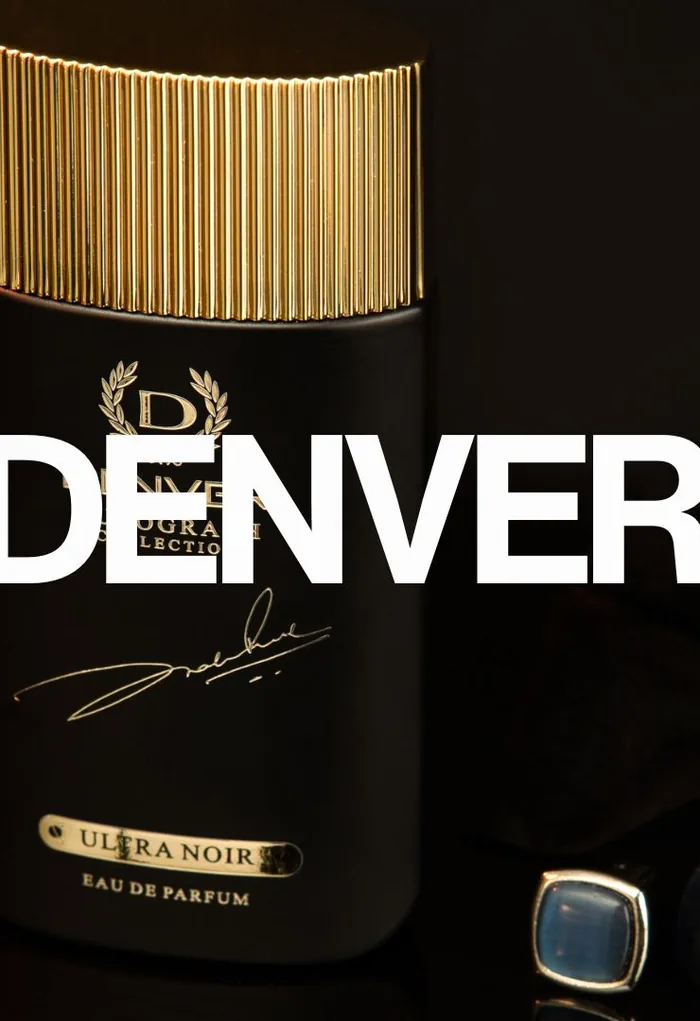
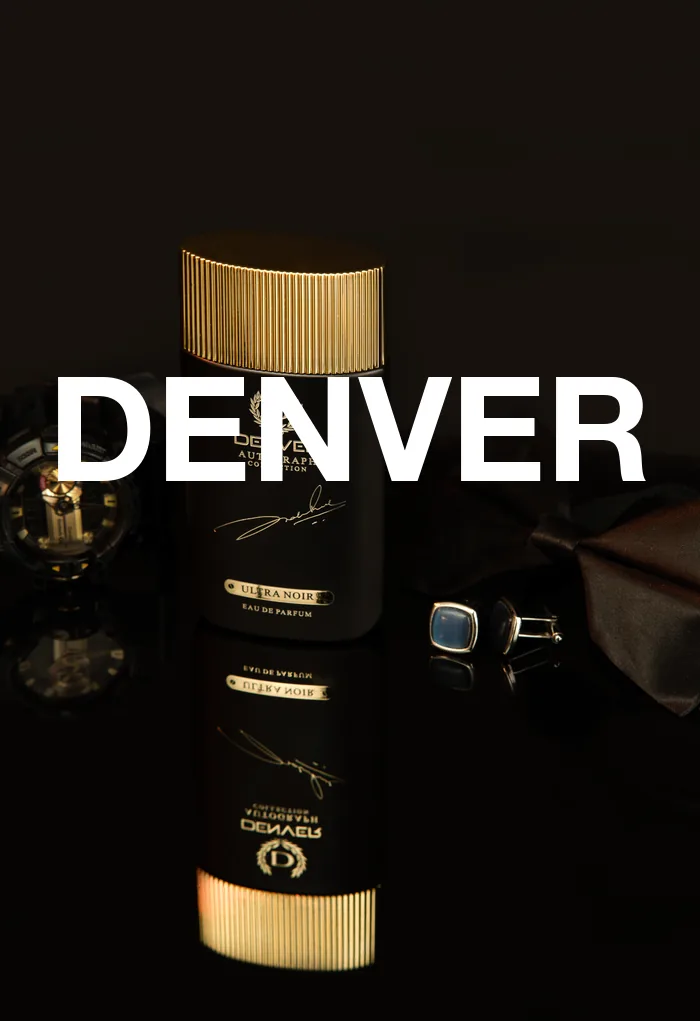
Work rail: reorder, and rebuild the Denver cover in the house style
ORDER — BBH Homes to first, Fig to fifth. The other five keep their relative
order and fill the gaps: bbhhomes, getmyrugs, parmandesigns, prakshi, fig,
tenderheartschool, denver. z-index and --rise renumbered by position so the
fanned stagger still runs 1..7 / 0..-72px.

DENVER COVER — it was the odd one out, and the cause was structural rather
than cosmetic: every other cover sets its wordmark contained, with margins on
both sides, while Denver's ran off both edges with the D and R clipped. That
came from cropping a landscape frame with DENVER already baked across it,
which no portrait crop can hold whole.

Rebuilt from DSC00457-2 — the same black-tie setup without the baked
wordmark, which only arrived with the shoot folder — cropped portrait to the
full bottle and DENVER set fresh in white Helvetica Bold at 86% of the card
width, matching the weight and proportion of BBH HOMES and TENDER HEART
SCHOOL either side of it. Nothing is clipped now.

The share image still uses the original landscape frame, where the baked
wordmark fits whole and needs no crop.

All seven covers verified at 700x1021, none broken.

diff --git a/index.html b/index.html
@@ -5,11 +5,11 @@
 <meta name="viewport" content="width=device-width, initial-scale=1">
 <title>Just Two Idiots — Websites and brands, built with care.</title>
 <meta name="description" content="A web and creative studio in India. Brand identity, websites, apps, packaging, content and campaigns — handled end to end by the two founders.">
-<link rel="icon" href="favicon.svg?v=1787493665" type="image/svg+xml">
+<link rel="icon" href="favicon.svg?v=1787495491" type="image/svg+xml">
 <link rel="preconnect" href="https://fonts.googleapis.com">
 <link href="https://fonts.googleapis.com/css2?family=Inter:wght@400;500;600&display=swap" rel="stylesheet">
 <link href="https://api.fontshare.com/v2/css?f[]=switzer@400,500,600,700&display=swap" rel="stylesheet">
-<link rel="stylesheet" href="style.css?v=1787493665">
+<link rel="stylesheet" href="style.css?v=1787495491">
 <link rel="canonical" href="https://justtwoidiots.com/">
 <meta name="theme-color" content="#FAFAF8">
 <meta property="og:type" content="website">
@@ -65,19 +65,19 @@
     </div>
     <div style="font-size:13px; color:#8A8A85; margin-bottom:8px"><span class="work-hint-pointer">Hover a project to bring it forward</span><span class="work-hint-touch">Swipe to browse the projects</span></div>
     <div class="work-rail">
-      <a href="work/fig.html" class="work-card" style="z-index:1; --rise:0px">
+      <a href="work/bbhhomes.html" class="work-card" style="z-index:1; --rise:0px">
         <div style="position:relative; border-radius:14px; overflow:hidden; height:350px; box-shadow:0 24px 50px -18px rgba(0,0,0,0.3); background:#fff">
-          <div style="width:100%; height:100%; background-image:url('assets/covers/fig.webp?v=1787493665'); background-size:cover; background-position:center"></div>
+          <div style="width:100%; height:100%; background-image:url('assets/covers/bbhhomes.webp?v=1787495491'); background-size:cover; background-position:center"></div>
           <div style="position:absolute; inset:0; background:linear-gradient(to right, transparent 65%, rgba(0,0,0,0.35) 100%); pointer-events:none"></div>
           <div style="position:absolute; left:0; right:0; bottom:0; padding:16px 18px; background:linear-gradient(transparent, rgba(0,0,0,0.6)); pointer-events:none">
-            <div style="font-family:'Switzer',sans-serif; font-weight:600; font-size:16px; color:#fff">Fig Living</div>
-            <div style="font-size:13px; color:rgba(255,255,255,0.75)">Lighting &amp; Living — Brand, app &amp; eCommerce</div>
+            <div style="font-family:'Switzer',sans-serif; font-weight:600; font-size:16px; color:#fff">BBH Homes</div>
+            <div style="font-size:13px; color:rgba(255,255,255,0.75)">Handmade Rugs &amp; Furniture &mdash; Storefront &amp; content</div>
           </div>
         </div>
       </a>
       <a href="work/getmyrugs.html" class="work-card" style="z-index:2; --rise:-12px">
         <div style="position:relative; border-radius:14px; overflow:hidden; height:350px; box-shadow:0 24px 50px -18px rgba(0,0,0,0.3); background:#fff">
-          <div style="width:100%; height:100%; background-image:url('assets/covers/getmyrugs.webp?v=1787493665'); background-size:cover; background-position:center"></div>
+          <div style="width:100%; height:100%; background-image:url('assets/covers/getmyrugs.webp?v=1787495491'); background-size:cover; background-position:center"></div>
           <div style="position:absolute; inset:0; background:linear-gradient(to right, transparent 65%, rgba(0,0,0,0.35) 100%); pointer-events:none"></div>
           <div style="position:absolute; left:0; right:0; bottom:0; padding:16px 18px; background:linear-gradient(transparent, rgba(0,0,0,0.6)); pointer-events:none">
             <div style="font-family:'Switzer',sans-serif; font-weight:600; font-size:16px; color:#fff">GetMyRugs</div>
@@ -87,7 +87,7 @@
       </a>
       <a href="work/parmandesigns.html" class="work-card" style="z-index:3; --rise:-24px">
         <div style="position:relative; border-radius:14px; overflow:hidden; height:350px; box-shadow:0 24px 50px -18px rgba(0,0,0,0.3); background:#fff">
-          <div style="width:100%; height:100%; background-image:url('assets/covers/parmandesigns.webp?v=1787493665'); background-size:cover; background-position:center"></div>
+          <div style="width:100%; height:100%; background-image:url('assets/covers/parmandesigns.webp?v=1787495491'); background-size:cover; background-position:center"></div>
           <div style="position:absolute; inset:0; background:linear-gradient(to right, transparent 65%, rgba(0,0,0,0.35) 100%); pointer-events:none"></div>
           <div style="position:absolute; left:0; right:0; bottom:0; padding:16px 18px; background:linear-gradient(transparent, rgba(0,0,0,0.6)); pointer-events:none">
             <div style="font-family:'Switzer',sans-serif; font-weight:600; font-size:16px; color:#fff">Parman Designs</div>
@@ -97,7 +97,7 @@
       </a>
       <a href="work/prakshi.html" class="work-card" style="z-index:4; --rise:-36px">
         <div style="position:relative; border-radius:14px; overflow:hidden; height:350px; box-shadow:0 24px 50px -18px rgba(0,0,0,0.3); background:#fff">
-          <div style="width:100%; height:100%; background-image:url('assets/covers/prakshi.webp?v=1787493665'); background-size:cover; background-position:center"></div>
+          <div style="width:100%; height:100%; background-image:url('assets/covers/prakshi.webp?v=1787495491'); background-size:cover; background-position:center"></div>
           <div style="position:absolute; inset:0; background:linear-gradient(to right, transparent 65%, rgba(0,0,0,0.35) 100%); pointer-events:none"></div>
           <div style="position:absolute; left:0; right:0; bottom:0; padding:16px 18px; background:linear-gradient(transparent, rgba(0,0,0,0.6)); pointer-events:none">
             <div style="font-family:'Switzer',sans-serif; font-weight:600; font-size:16px; color:#fff">Prakshi Fine Jewellery</div>
@@ -105,9 +105,19 @@
           </div>
         </div>
       </a>
-      <a href="work/tenderheartschool.html" class="work-card" style="z-index:5; --rise:-48px">
+      <a href="work/fig.html" class="work-card" style="z-index:5; --rise:-48px">
         <div style="position:relative; border-radius:14px; overflow:hidden; height:350px; box-shadow:0 24px 50px -18px rgba(0,0,0,0.3); background:#fff">
-          <div style="width:100%; height:100%; background-image:url('assets/covers/tenderheartschool.webp?v=1787493665'); background-size:cover; background-position:center"></div>
+          <div style="width:100%; height:100%; background-image:url('assets/covers/fig.webp?v=1787495491'); background-size:cover; background-position:center"></div>
+          <div style="position:absolute; inset:0; background:linear-gradient(to right, transparent 65%, rgba(0,0,0,0.35) 100%); pointer-events:none"></div>
+          <div style="position:absolute; left:0; right:0; bottom:0; padding:16px 18px; background:linear-gradient(transparent, rgba(0,0,0,0.6)); pointer-events:none">
+            <div style="font-family:'Switzer',sans-serif; font-weight:600; font-size:16px; color:#fff">Fig Living</div>
+            <div style="font-size:13px; color:rgba(255,255,255,0.75)">Lighting &amp; Living — Brand, app &amp; eCommerce</div>
+          </div>
+        </div>
+      </a>
+      <a href="work/tenderheartschool.html" class="work-card" style="z-index:6; --rise:-60px">
+        <div style="position:relative; border-radius:14px; overflow:hidden; height:350px; box-shadow:0 24px 50px -18px rgba(0,0,0,0.3); background:#fff">
+          <div style="width:100%; height:100%; background-image:url('assets/covers/tenderheartschool.webp?v=1787495491'); background-size:cover; background-position:center"></div>
           <div style="position:absolute; inset:0; background:linear-gradient(to right, transparent 65%, rgba(0,0,0,0.35) 100%); pointer-events:none"></div>
           <div style="position:absolute; left:0; right:0; bottom:0; padding:16px 18px; background:linear-gradient(transparent, rgba(0,0,0,0.6)); pointer-events:none">
             <div style="font-family:'Switzer',sans-serif; font-weight:600; font-size:16px; color:#fff">Tender Heart School</div>
@@ -115,23 +125,13 @@
           </div>
         </div>
       </a>
-      <a href="work/denver.html" class="work-card" style="z-index:6; --rise:-60px">
+      <a href="work/denver.html" class="work-card" style="z-index:7; --rise:-72px">
         <div style="position:relative; border-radius:14px; overflow:hidden; height:350px; box-shadow:0 24px 50px -18px rgba(0,0,0,0.3); background:#fff">
-          <div style="width:100%; height:100%; background-image:url('assets/covers/denver.webp?v=1787493665'); background-size:cover; background-position:center"></div>
+          <div style="width:100%; height:100%; background-image:url('assets/covers/denver.webp?v=1787495491'); background-size:cover; background-position:center"></div>
           <div style="position:absolute; inset:0; background:linear-gradient(to right, transparent 65%, rgba(0,0,0,0.35) 100%); pointer-events:none"></div>
           <div style="position:absolute; left:0; right:0; bottom:0; padding:16px 18px; background:linear-gradient(transparent, rgba(0,0,0,0.6)); pointer-events:none">
             <div style="font-family:'Switzer',sans-serif; font-weight:600; font-size:16px; color:#fff">Denver</div>
             <div style="font-size:13px; color:rgba(255,255,255,0.75)">Autograph Collection &mdash; Naming, photography &amp; copy</div>
-          </div>
-        </div>
-      </a>
-      <a href="work/bbhhomes.html" class="work-card" style="z-index:7; --rise:-72px">
-        <div style="position:relative; border-radius:14px; overflow:hidden; height:350px; box-shadow:0 24px 50px -18px rgba(0,0,0,0.3); background:#fff">
-          <div style="width:100%; height:100%; background-image:url('assets/covers/bbhhomes.webp?v=1787493665'); background-size:cover; background-position:center"></div>
-          <div style="position:absolute; inset:0; background:linear-gradient(to right, transparent 65%, rgba(0,0,0,0.35) 100%); pointer-events:none"></div>
-          <div style="position:absolute; left:0; right:0; bottom:0; padding:16px 18px; background:linear-gradient(transparent, rgba(0,0,0,0.6)); pointer-events:none">
-            <div style="font-family:'Switzer',sans-serif; font-weight:600; font-size:16px; color:#fff">BBH Homes</div>
-            <div style="font-size:13px; color:rgba(255,255,255,0.75)">Handmade Rugs &amp; Furniture &mdash; Storefront &amp; content</div>
           </div>
         </div>
       </a>
@@ -530,7 +530,7 @@
 
     <div class="cta-cards">
       <div class="cta-brand">
-        <img class="cta-brand-logo" src="assets/brand/logo-wordmark-white.webp?v=1787493665" width="520" height="94" alt="Just Two Idiots" decoding="async">
+        <img class="cta-brand-logo" src="assets/brand/logo-wordmark-white.webp?v=1787495491" width="520" height="94" alt="Just Two Idiots" decoding="async">
         <p class="cta-brand-tag">Websites and brands,<span>built with care.</span></p>
       </div>
 
@@ -575,6 +575,6 @@
   </section>
 
 </div>
-<script src="script.js?v=1787493665"></script>
+<script src="script.js?v=1787495491"></script>
 </body>
 </html>

diff --git a/who-we-are.html b/who-we-are.html
@@ -3,14 +3,14 @@
 <head>
 <meta charset="utf-8">
 <meta name="viewport" content="width=device-width, initial-scale=1">
-<link rel="icon" href="favicon.svg?v=1787493665" type="image/svg+xml">
+<link rel="icon" href="favicon.svg?v=1787495491" type="image/svg+xml">
 <title>Who we are — Just Two Idiots</title>
 <meta name="description" content="Two friends since class one, running one studio. Krishn Yadav on creative direction and Manish Mahiwal on engineering, handling every project end to end.">
 <link rel="preconnect" href="https://fonts.googleapis.com">
 <link href="https://fonts.googleapis.com/css2?family=Inter:wght@400;500;600&display=swap" rel="stylesheet">
 <link href="https://api.fontshare.com/v2/css?f[]=switzer@400,500,600,700&display=swap" rel="stylesheet">
-<link rel="stylesheet" href="style.css?v=1787493665">
-<link rel="stylesheet" href="who-we-are.css?v=1787493665">
+<link rel="stylesheet" href="style.css?v=1787495491">
+<link rel="stylesheet" href="who-we-are.css?v=1787495491">
 <link rel="canonical" href="https://justtwoidiots.com/who-we-are.html">
 <meta name="theme-color" content="#FAFAF8">
 <meta property="og:type" content="website">
@@ -109,6 +109,6 @@
 
   </div>
 </div>
-<script src="who-we-are.js?v=1787493665"></script>
+<script src="who-we-are.js?v=1787495491"></script>
 </body>
 </html>

diff --git a/work/tenderheartschool.html b/work/tenderheartschool.html
@@ -5,7 +5,7 @@
 <meta name="viewport" content="width=device-width, initial-scale=1">
 <title>Tender Heart School — Case study — Just Two Idiots</title>
 <meta name="description" content="A new mark, brand system, website and a term of campus photography and film for Tender Heart School in Ranchi — thirty-five years of history, finally on the record.">
-<link rel="icon" href="../favicon.svg?v=1787493665" type="image/svg+xml">
+<link rel="icon" href="../favicon.svg?v=1787495491" type="image/svg+xml">
 <link rel="preconnect" href="https://fonts.googleapis.com">
 <link rel="preconnect" href="https://fonts.gstatic.com" crossorigin>
 <link href="https://fonts.googleapis.com/css2?family=Poppins:wght@400;500;600&family=Inter+Tight:wght@300;400;500&display=swap" rel="stylesheet">
@@ -17,7 +17,7 @@
   .ths-hov-dark:hover { background:#1E1656 !important; color:#FFFDF7 !important; }
   .ths-hov-warm:hover { background:#A8843C !important; color:#FFFFFF !important; }
 </style>
-<link rel="stylesheet" href="case-study.css?v=1787493665">
+<link rel="stylesheet" href="case-study.css?v=1787495491">
 <link rel="canonical" href="https://justtwoidiots.com/work/tenderheartschool.html">
 <meta name="theme-color" content="#FAFAF8">
 <meta property="og:type" content="article">

diff --git a/work/getmyrugs.html b/work/getmyrugs.html
@@ -5,7 +5,7 @@
 <meta name="viewport" content="width=device-width, initial-scale=1">
 <title>GetMyRugs — Case study — Just Two Idiots</title>
 <meta name="description" content="Brand identity, an iOS and iPad app with in-room AR, and an e-commerce storefront for GetMyRugs — a forty-year handmade rug family selling from New York.">
-<link rel="icon" href="../favicon.svg?v=1787493665" type="image/svg+xml">
+<link rel="icon" href="../favicon.svg?v=1787495491" type="image/svg+xml">
 <link rel="preconnect" href="https://fonts.googleapis.com">
 <link rel="preconnect" href="https://fonts.gstatic.com" crossorigin>
 <link href="https://api.fontshare.com/v2/css?f[]=general-sans@200,300,400,500,600,700&display=swap" rel="stylesheet">
@@ -19,7 +19,7 @@
   .gmr-hov-dark:hover { border-color:#171311 !important; background:#171311 !important; color:#F5F3ED !important; }
   .gmr-hov-warm:hover { background:#DB9064 !important; color:#171311 !important; }
 </style>
-<link rel="stylesheet" href="case-study.css?v=1787493665">
+<link rel="stylesheet" href="case-study.css?v=1787495491">
 <link rel="canonical" href="https://justtwoidiots.com/work/getmyrugs.html">
 <meta name="theme-color" content="#FAFAF8">
 <meta property="og:type" content="article">

diff --git a/work/fig.html b/work/fig.html
@@ -5,7 +5,7 @@
 <meta name="viewport" content="width=device-width, initial-scale=1">
 <title>Fig Living — Case study — Just Two Idiots</title>
 <meta name="description" content="Brand identity, a shopping app, e-commerce and campaign work for FIG Living — modern paper-pleated lighting, sold on what it does to a room at night.">
-<link rel="icon" href="../favicon.svg?v=1787493665" type="image/svg+xml">
+<link rel="icon" href="../favicon.svg?v=1787495491" type="image/svg+xml">
 <link rel="preconnect" href="https://fonts.googleapis.com">
 <link rel="preconnect" href="https://fonts.gstatic.com" crossorigin>
 <link href="https://fonts.googleapis.com/css2?family=Jost:wght@300;400;500;600&family=Inter+Tight:wght@300;400;500;600&display=swap" rel="stylesheet">
@@ -19,7 +19,7 @@
   .fig-hov-dark:hover { background:#1A1613 !important; color:#FBF7EC !important; }
   .fig-hov-warm:hover { background:#E0A430 !important; color:#1A1613 !important; }
 </style>
-<link rel="stylesheet" href="case-study.css?v=1787493665">
+<link rel="stylesheet" href="case-study.css?v=1787495491">
 <link rel="canonical" href="https://justtwoidiots.com/work/fig.html">
 <meta name="theme-color" content="#FAFAF8">
 <meta property="og:type" content="article">

diff --git a/work/prakshi.html b/work/prakshi.html
@@ -5,7 +5,7 @@
 <meta name="viewport" content="width=device-width, initial-scale=1">
 <title>Prakshi Fine Jewellery — Case study — Just Two Idiots</title>
 <meta name="description" content="Collection copy, website design, photography and film for Prakshi Fine Jewellery's Evermore launch — diamond-studded 18k lockets.">
-<link rel="icon" href="../favicon.svg?v=1787493665" type="image/svg+xml">
+<link rel="icon" href="../favicon.svg?v=1787495491" type="image/svg+xml">
 <link rel="preconnect" href="https://fonts.googleapis.com">
 <link rel="preconnect" href="https://fonts.gstatic.com" crossorigin>
 <link href="https://fonts.googleapis.com/css2?family=Cormorant+Garamond:wght@300;400;500&family=Inter+Tight:wght@300;400;500&display=swap" rel="stylesheet">
@@ -17,7 +17,7 @@
   .pk-hov-dark:hover { background:#171310 !important; color:#FAF7F2 !important; }
   .pk-hov-warm:hover { background:#8C6A31 !important; color:#FFFFFF !important; }
 </style>
-<link rel="stylesheet" href="case-study.css?v=1787493665">
+<link rel="stylesheet" href="case-study.css?v=1787495491">
 <link rel="canonical" href="https://justtwoidiots.com/work/prakshi.html">
 <meta name="theme-color" content="#FAFAF8">
 <meta property="og:type" content="article">

diff --git a/work/parmandesigns.html b/work/parmandesigns.html
@@ -5,7 +5,7 @@
 <meta name="viewport" content="width=device-width, initial-scale=1">
 <title>Parman Designs — Case study — Just Two Idiots</title>
 <meta name="description" content="Photography and content for Parman Designs — terrazzo furniture shot in the studio, from the raw slabs to the finished table.">
-<link rel="icon" href="../favicon.svg?v=1787493665" type="image/svg+xml">
+<link rel="icon" href="../favicon.svg?v=1787495491" type="image/svg+xml">
 <link rel="preconnect" href="https://fonts.googleapis.com">
 <link rel="preconnect" href="https://fonts.gstatic.com" crossorigin>
 <link href="https://fonts.googleapis.com/css2?family=Jost:wght@300;400;500;600&family=Inter+Tight:wght@300;400;500;600&display=swap" rel="stylesheet">
@@ -17,7 +17,7 @@
   .pd-hov-dark:hover { background:#0D0D0D !important; color:#F2F1EE !important; }
   .pd-hov-warm:hover { background:#1B6F7C !important; color:#FFFFFF !important; }
 </style>
-<link rel="stylesheet" href="case-study.css?v=1787493665">
+<link rel="stylesheet" href="case-study.css?v=1787495491">
 <link rel="canonical" href="https://justtwoidiots.com/work/parmandesigns.html">
 <meta name="theme-color" content="#FAFAF8">
 <meta property="og:type" content="article">

diff --git a/work/bbhhomes.html b/work/bbhhomes.html
@@ -5,7 +5,7 @@
 <meta name="viewport" content="width=device-width, initial-scale=1">
 <title>BBH Homes — Case study — Just Two Idiots</title>
 <meta name="description" content="Naming, storefront design, an AI room-matching library, product photography and workshop films for BBH Homes — handmade rugs and furniture from India.">
-<link rel="icon" href="../favicon.svg?v=1787493872" type="image/svg+xml">
+<link rel="icon" href="../favicon.svg?v=1787495491" type="image/svg+xml">
 <link rel="preconnect" href="https://fonts.googleapis.com">
 <link rel="preconnect" href="https://fonts.gstatic.com" crossorigin>
 <link href="https://fonts.googleapis.com/css2?family=Archivo:wght@400;500;600;700;800&family=Poppins:wght@300;400;500;600&family=JetBrains+Mono:wght@400;500&display=swap" rel="stylesheet">
@@ -21,7 +21,7 @@
     [data-reveal] { opacity:1 !important; transform:none !important; transition:none !important; }
   }
 </style>
-<link rel="stylesheet" href="case-study.css?v=1787493872">
+<link rel="stylesheet" href="case-study.css?v=1787495491">
 <link rel="canonical" href="https://justtwoidiots.com/work/bbhhomes.html">
 <meta name="theme-color" content="#FAFAF8">
 <meta property="og:type" content="article">

diff --git a/work/denver.html b/work/denver.html
@@ -5,7 +5,7 @@
 <meta name="viewport" content="width=device-width, initial-scale=1">
 <title>Denver Autograph Collection — Case study — Just Two Idiots</title>
 <meta name="description" content="Product naming, bottle photography and launch copy for Denver's Autograph Collection — four eau de parfums shot on four sets, one crest across every bottle.">
-<link rel="icon" href="../favicon.svg?v=1787493665" type="image/svg+xml">
+<link rel="icon" href="../favicon.svg?v=1787495491" type="image/svg+xml">
 <link rel="preconnect" href="https://fonts.googleapis.com">
 <link rel="preconnect" href="https://fonts.gstatic.com" crossorigin>
 <link href="https://fonts.googleapis.com/css2?family=Oswald:wght@300;400;500;600;700&family=Inter+Tight:wght@300;400;500;600&display=swap" rel="stylesheet">
@@ -24,7 +24,7 @@
     [style*="dv-marquee"] { animation:none !important; }
   }
 </style>
-<link rel="stylesheet" href="case-study.css?v=1787493665">
+<link rel="stylesheet" href="case-study.css?v=1787495491">
 <link rel="canonical" href="https://justtwoidiots.com/work/denver.html">
 <meta name="theme-color" content="#FAFAF8">
 <meta property="og:type" content="article">
